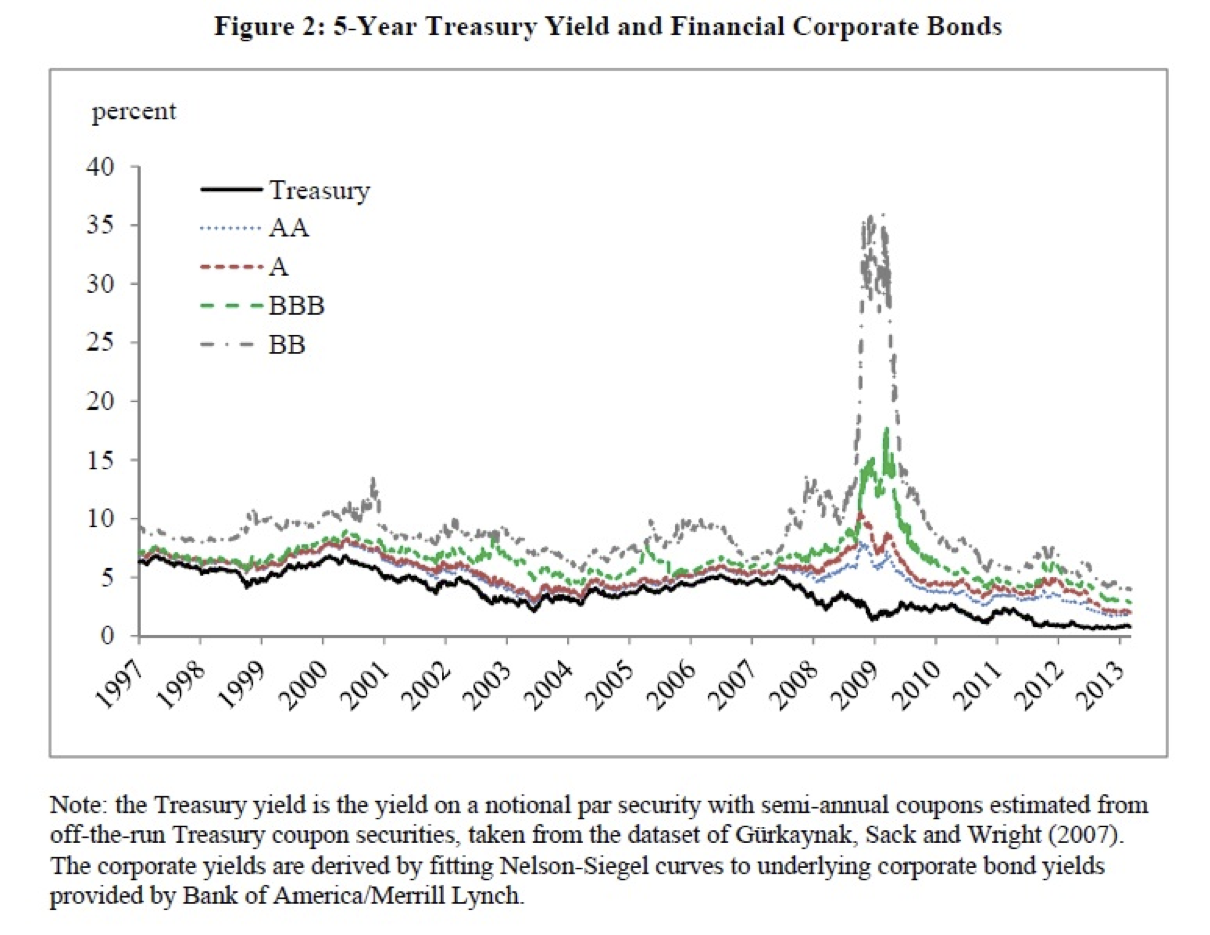
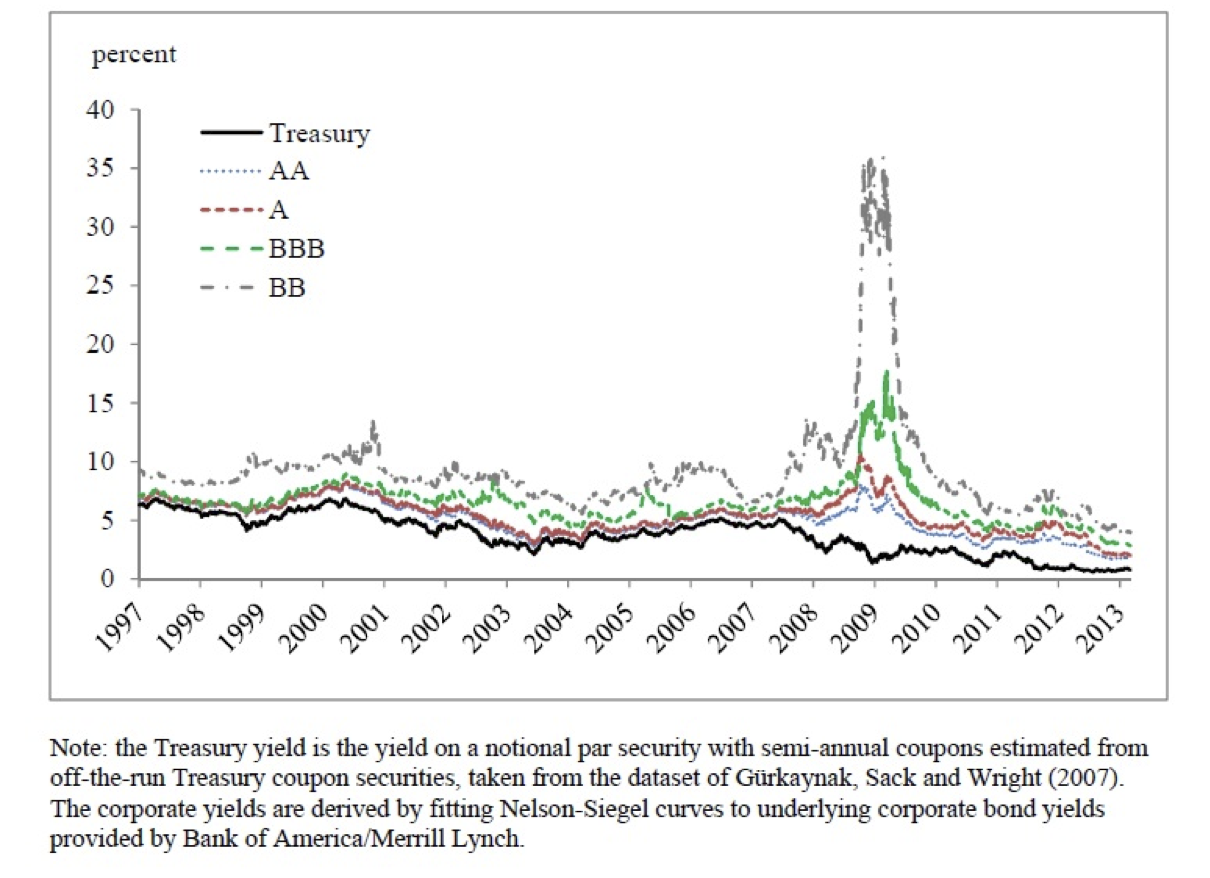
Imperfect capital markets chapters: corrections from a line-by-line review
Capital market imperfections: bond spreads are only partial evidence of the external
finance premium, since a promised yield exceeds the risk-free rate even without
verification costs. New share issues, not equity, are the small source of funds. The
model now says what investors know and when debt is optimal; projects that go unfunded are
those that would be funded under full information; households know less than a bank
does. The model's parties have one name each, equations and figures are referred to by
name, and the titles baked into Raskin's two images are cropped.

Investment and cash flow: points to the chapter before it, says the dividend is net of
investment spending, credits the example to Miller and Modigliani (1961), and fixes
punctuation, agreement and a "But" that did not follow.

Claude-Session: https://claude.ai/code/session_01CChDGrjSU7rnu4Mpw6L4NE

Changed region(s): [[0.0306, 0.0, 0.9785, 0.9841], [0.7033, 0.1845, 0.7339, 0.3383]]

diff --git a/content/investment/DynanImperfCapMkts/index.md b/content/investment/DynanImperfCapMkts/index.md
@@ -16,8 +16,8 @@ good credit risks from bad ones, so the market rate reflects the average risk; t
 risks are unwilling to borrow at that rate, and the market fills with bad ones
 {cite:p}`akerlofLemons`. Lenders may then ration credit rather than raise the rate
 {cite:p}`stiglitzWeissRationing`, and a firm that issues new shares signals that its
-managers think them overpriced {cite:p}`myersMajlufFinancing`. Under moral hazard, the
-money having already been lent, the borrower has an incentive to do things that are not in
+managers think them overpriced {cite:p}`myersMajlufFinancing`. Under moral hazard, once the
+money has been lent, the borrower has an incentive to do things that are not in
 the lender's interest {cite:p}`jensenMecklingAgency`.
 
 ## Sources of External Finance
@@ -26,11 +26,11 @@ One place these problems show up is in the structure of the financial system its
 Funds flow from savers to borrowers by two routes. They travel directly when a household
 buys a firm's stocks or bonds, and indirectly when a household deposits at a bank that
 then lends to the firm. Asymmetric information is worse along the direct route, because
-a household knows far less about a firm's projects than the firm does, and because no
+a household knows far less about a firm's projects than a bank does, and because no
 single household has a stake large enough to make paying for monitoring worthwhile.
 
 Financial intermediaries exist largely because of this. A bank becomes a specialist in
-acquiring information about firms, which is more efficient done at scale, and so gets
+acquiring information about firms, which is more efficient at scale, and so gets
 around some of the problem {cite:p}`diamondMonitoring`. It does not get around all of it, and there remains
 asymmetric information along the indirect route as well (and between depositors and the
 bank). How much a bank can lend then depends on its own capital, which gives the condition
@@ -43,13 +43,13 @@ bonds and short-term securities 11 percent, and new shares less than 1 percent. 
 outside financing is done indirectly, through intermediaries, which is what the
 information problems predict. The skew is in fact sharper than those numbers suggest,
 since financial intermediaries rather than households hold much of the stock and most of
-the bonds. Note also how small a role equity plays. On balance it has since become
+the bonds. Note also how little comes from new shares. Net issuance has since turned
 negative: in the Federal Reserve's Financial Accounts, U.S. nonfinancial corporations
-retired more stock than they issued in every year from 1984 to 2025 except 1991-93, a net
+retired more stock than they issued in every year from 1984 to 2025 except 1991–93, a net
 8.5 trillion dollars in all {cite:p}`fedZ1`, although individual firms issue and retire
 stock far more often than the "pecking order" of {cite:t}`myersMajlufFinancing` would
 predict {cite:p}`famaFrenchIssuance`. The model we turn to now explains why a debt
-contract is generally the optimal arrangement between a lender and a borrower.
+contract is the optimal arrangement between an outside investor and an entrepreneur.
 
 ## Costly State Verification
 
@@ -62,9 +62,10 @@ generalizes to others and the qualitative conclusions survive.
 
 An entrepreneur can undertake a project requiring one unit of resources. Project output
 is distributed uniformly on {math}`[0,2\mu]`, so expected output is {math}`\mu`, and
-{math}`\mu` varies across entrepreneurs. The entrepreneur has wealth {math}`W` and must
-borrow {math}`1-W` from outsiders. Because all of her money is tied up in the project,
-her payment back to lenders cannot exceed the project's output, so the lenders bear some
+{math}`\mu` varies across entrepreneurs. The entrepreneur has wealth {math}`W<1` and must
+borrow {math}`1-W` from investors. Investors know {math}`\mu` and {math}`W`; the only hidden
+information is realized output. Because all of her money is tied up in the project,
+her payment back to investors cannot exceed the project's output, so the investors bear some
 of the risk. Everyone is risk neutral, the risk-free interest rate is {math}`\rfree`,
 and outside investors are competitive, so in equilibrium their expected rate of return
 must equal {math}`\rfree`. The entrepreneur undertakes the project when
@@ -72,11 +73,11 @@ must equal {math}`\rfree`. The entrepreneur undertakes the project when
 ```{math}
 :label: eq:DICM-undertake
 
-\mu - \Ex[\text{payment to outsiders}] > (1+\rfree)W.
+\mu - \Ex[\text{payment to investor}] > (1+\rfree)W.
 ```
 
 Suppose first that outside investors can observe output without cost, so that they know
-what the firm knows. Every project with {math}`\mu > 1+\rfree` is financed, and the loan
+what the entrepreneur knows. Every project with {math}`\mu > 1+\rfree` is financed, and the loan
 contract is written so that the expected payment to the investor is
 {math}`(1-W)(1+\rfree)`. The investor is content, earning exactly what lending at the
 risk-free rate would have paid. So is the entrepreneur, whose expected income is
@@ -89,9 +90,9 @@ which exceeds {math}`W(1+\rfree)` precisely because {math}`\mu > 1+\rfree`.
 
 Now let the investor pay a cost {math}`c>0` to observe the entrepreneur's output. We take
 up this case, "costly state verification," because it is the most straightforward of the
-information problems to analyze, and we should be honest that in practice other frictions
-matter more. We also assume the outsider's wealth exceeds {math}`1-W`, so that a single
-investor can fund a project. (Drop that assumption and lenders begin waiting for someone
+information problems to analyze, though in practice other frictions
+matter more. We also assume the investor's wealth exceeds {math}`1-W`, so that a single
+investor can fund a project. (Drop that assumption and investors begin waiting for someone
 else to pay the verification cost, which is a complication of its own.)
 
 The expected payment to the investor must cover the required return and the verification
@@ -104,21 +105,23 @@ costs it expects to bear,
 ```
 
 and the entrepreneur keeps whatever output remains. Her income is therefore maximized by
-the contract that minimizes expected verification costs, and that contract is debt. The
-outsider receives a fixed payment {math}`D` whenever output is high enough to cover it,
-verifying nothing; when output falls short, the outsider verifies and takes everything
+the contract that minimizes expected verification costs. As long as verification is
+deterministic and the investor can commit to carrying it out, that contract is debt; random
+audits can do better (Border and Sobel 1987; Mookherjee and Png 1989). The
+investor receives a fixed payment {math}`D` whenever output is high enough to cover it,
+verifying nothing; when output falls short, the investor verifies and takes everything
 there is. Verifying always would be wasteful, and a payment that varied with output
 without verification would be worthless, since the entrepreneur would report that things
 had turned out badly every time.
 
 ## The Equilibrium Debt Contract
 
-The face value {math}`D` is endogenous, so we solve for it. Write the lender's expected
-net receipts as {math}`\mathcal{R}(D)`. If {math}`D \geq 2\mu` the lender always takes the
+The face value {math}`D` is endogenous, so we solve for it. Write the investor's expected
+net receipts as {math}`\mathcal{R}(D)`. If {math}`D \geq 2\mu` the investor always takes the
 whole output and always verifies, so {math}`\mathcal{R} = \mu - c`. If {math}`D < 2\mu`,
-then with probability {math}`(2\mu-D)/2\mu` output exceeds {math}`D` and the lender
+then with probability {math}`(2\mu-D)/2\mu` output exceeds {math}`D` and the investor
 receives {math}`D` without verifying, while with probability {math}`D/2\mu` output falls
-short and the lender verifies and collects {math}`D/2` on average (the mean of a uniform
+short and the investor verifies and collects {math}`D/2` on average (the mean of a uniform
 draw conditional on landing below {math}`D`). Collecting terms,
 
 ```{math}
@@ -131,7 +134,7 @@ so that {math}`\mathcal{R}` is rising as long as {math}`2\mu - c > D`. Expected 
 therefore increase with {math}`D` up to {math}`D = 2\mu - c` and fall thereafter,
 leveling out at {math}`D = 2\mu`.
 
-Equilibrium sets {math}`\mathcal{R}(D)` equal to the return the lender requires,
+Equilibrium sets {math}`\mathcal{R}(D)` equal to the return the investor requires,
 {math}`(1+\rfree)(1-W)`. Three cases arise as that requirement rises. When it is low the
 equation has a single relevant root on the rising branch. When it is higher there are
 two roots, but the larger of them is not a competitive equilibrium, because another
@@ -141,7 +144,7 @@ investor's required return in expected value.
 
 Because the investor verifies whenever output falls below the equilibrium face value,
 which happens with probability {math}`D^{*}/2\mu`, expected verification costs are
-{math}`(D^{*}/2\mu)c`. Writing that wedge as an agency cost
+{math}`(D^{*}/2\mu)c`. Writing these costs as a wedge, the agency cost
 {math}`\mathcal{A}(c,\rfree,W,\mu)`, the project is undertaken only when
 
 ```{math}
@@ -157,12 +160,12 @@ verification deliver much the same comparative statics.
 
 ## Implications
 
-Four things follow, and we think each of them marks a real departure from the
-{math}`\q` theory of the [{math}`\q` model](#sec:qModel).
+Four things follow, and each of them marks a real departure from the
+[{math}`\q` model](#sec:qModel).
 
 Agency costs raise the cost of external finance and reduce investment, since
-{eq}`eq:DICM-agency` demands a strictly better project than the frictionless condition
-{math}`\mu > 1+\rfree` would. Some worthwhile projects (those with
+[the condition for undertaking a project with agency costs](#eq:DICM-agency) demands a strictly better project than the frictionless condition
+{math}`\mu > 1+\rfree` would. Some projects that would be funded under full information (those with
 {math}`1+\rfree < \mu < 1+\rfree+\mathcal{A}`) simply go unfunded.
 
 Output and interest rates acquire indirect effects on investment alongside the direct
@@ -176,8 +179,8 @@ external finance and lowers investment, which deepens the recession. In
 collateral that limits how much firms can borrow.
 
 Variables with no place in the {math}`\q` model begin to matter, cash flow most of all.
-Firms with more of their own resources fund projects more cheaply, and the empirical
-literature testing that link is large and mostly finds it. Unfortunately, the finding is
+Firms with more of their own resources fund projects more cheaply, and a large empirical
+literature mostly finds that investment moves with cash flow. Unfortunately, the finding is
 harder to interpret than it looks, because cash flow moves with profitability, which
 ought to affect investment even when information is symmetric (a firm having a good year
 is both richer and, plausibly, facing better projects). We take that identification
@@ -186,15 +189,17 @@ problem up in [investment and cash flow](#sec:iAndCashFlow).
 Changes in the financial system itself alter investment, by making verification harder
 or easier. The collapse of the banking system during the Great Depression destroyed
 precisely the specialists who had been evaluating projects cheaply, which raised the
-cost of investment and helped drive it down {cite:p}`bernankeDepression`.
+cost of credit and helped drive investment down {cite:p}`bernankeDepression`.
 
 (ExternalFinancePremium)=
 ## The Premium on External Finance
 
 The model's central prediction is that external finance carries a premium, which rises
 with the borrower's risk and falls with its net worth, and so should widen in a recession,
-when net worth falls. The yields on corporate bonds show both.
-{numref}`fig:CreditSpread` shows a century of one measure, the spread between the yields on
+when net worth falls. Corporate bond yields are consistent with this, though only partly as evidence for it: in the
+model a promised yield exceeds the risk-free rate even without verification costs, because it
+compensates the lender for default.
+[The figure of credit spreads](#fig:CreditSpread) shows a century of one measure, the spread between the yields on
 Moody's Baa-rated and Aaa-rated corporate bonds. Since 1919 it has averaged 1.7 percentage points
 in recessions and 1.0 in expansions, and it reached 5.6 points in May 1932, 3.4 in December 2008
 and 1.7 in April 2020.
@@ -205,11 +210,11 @@ and 1.7 in April 2020.
 The spread between the yields on Moody's seasoned Baa-rated and Aaa-rated corporate bonds, in percentage points, monthly from 1919, with the NBER's recessions shaded. Data from FRED (series BAA, AAA and USREC), downloaded on 2026-10-31. Drawn by the chapter's notebook, which you can open in [Colab](https://colab.research.google.com/github/intertemporal-choice/intertemporal-choice.github.io/blob/main/content/investment/DynanImperfCapMkts/DynanImperfCapMkts.ipynb) or [Binder](https://mybinder.org/v2/gh/intertemporal-choice/intertemporal-choice.github.io/main?labpath=content/investment/DynanImperfCapMkts/DynanImperfCapMkts.ipynb).
 :::
 
-{numref}`fig:NonfinancialBonds` and {numref}`fig:FinancialBonds`, from the third chapter
+[The nonfinancial figure](#fig:NonfinancialBonds) and [the financial figure](#fig:FinancialBonds), from the third chapter
 of Matthew Raskin's 2013 Johns Hopkins dissertation, plot the yields on five-year bonds of
 nonfinancial and of financial firms, by credit rating, against the five-year Treasury
 yield, from 1997 to 2013. The spread over Treasuries is larger the lower the rating, and in
-the financial crisis of 2008-09 it widened enormously, most of all for the lowest-rated
+the financial crisis of 2008–09 it widened enormously, most of all for the lowest-rated
 bonds and for financial firms: the yield on BB-rated bonds rose to almost 15 percent for
 nonfinancial firms and to about 35 percent for financial firms, while the Treasury yield
 fell. {cite:t}`gilchristZakrajsekSpreads` split credit spreads into the part explained by

diff --git a/content/investment/iAndCashFlow.md b/content/investment/iAndCashFlow.md
@@ -1,7 +1,7 @@
 (sec:iAndCashFlow)=
 # Investment and Cash Flow With Imperfect Capital Markets
 
-Many models of capital market imperfections reach the conclusion that financing an investment project is cheaper with "internal" than with "external" funds. (Internal funds are those that the firm owns, for example, in its bank account; external funds are obtained from outsiders like banks or new investors). For a lucid exposition of an example of models of this kind, see the discussion of financial market imperfections in {cite:t}`romer:text`.
+Many models of capital market imperfections reach the conclusion that financing an investment project is cheaper with "internal" than with "external" funds. (Internal funds are those that the firm owns, for example, in its bank account; external funds are obtained from outsiders like banks or new investors). For a lucid exposition of an example of models of this kind, see [Investment and Capital Market Imperfections](#sec:DynanImperfCapMkts) or the discussion of financial market imperfections in {cite:t}`romer:text`.
 
 Such models tend to be highly specialized, with entrepreneurs who miraculously receive exogenously specified endowments of "internal" cash and who make a one- (or at most two-) period investment decision. This is a striking contrast with the generality of the canonical {math}`\q` model of investment in which optimizing firms make investment decisions that take into account infinite future paths of adjustment costs, marginal products of capital, taxes, and all other features of the environment.
 
@@ -9,7 +9,7 @@ But models with imperfect capital markets are always very clear on who receives 
 
 ## Modigliani-Miller
 
-To see this, consider the benchmark discrete-time framework in the [marginal q model](#sec:qModel) section without taxes or depreciation, and (as in that section) assume that the firm issues or repurchases shares to maintain a number of shares {math}`s_{t}` outstanding equal to the size of the physical capital stock (so {math}`s_{t}=k_{t}` in every period). Suppose we assume that the firm has a "dividend policy": In every period, it pays to each shareholder a dividend equal to the flow of revenues per share.
+To see this, consider the benchmark discrete-time framework in the [marginal q model](#sec:qModel) section without taxes or depreciation, and (as in that section) assume that the firm issues or repurchases shares to maintain a number of shares {math}`s_{t}` outstanding equal to the size of the physical capital stock (so {math}`s_{t}=k_{t}` in every period). Suppose we assume that the firm has a "dividend policy": In every period, it pays to each shareholder a dividend equal to the flow of revenues net of investment expenditures, per share.
 
 In this case, the value of all the firm's shares {math}`s_{t}` (the equity value of the firm) will be
 
@@ -25,7 +25,7 @@ Now suppose the firm decides to deviate, just a little bit, from this dividend p
 
 ```{math}
 \begin{aligned}
-  \max_{\{i\}_{t}^{\infty}}~\Ex_{t}\left[\sum_{n=0}^{\infty} \Discount^{n} \left(\pi_{t+n}-\xpend_{t+n}\right)\right]+ \lambda_{t} - \Rfree\Discount \lambda_{t}.
+  \max_{\{i\}_{t}^{\infty}}~\Ex_{t}\left[\sum_{n=0}^{\infty} \Discount^{n} \left(\pi_{t+n}-\xpend_{t+n}\right)\right]+ \lambda_{t} - \Rfree\Discount \lambda_{t},
 \end{aligned}
 ```
 
@@ -33,9 +33,9 @@ but since by assumption {math}`\Discount = \Rfree^{-1}` this expression reduces 
 
 The point can be extended to show that the firm can raise an arbitrary amount of money in one period, paying it back in another, or vice versa, without having any effect on its value or its optimal investment plans.
 
-This is an example of the famous theorem by {cite:t}`mmTheorem`, who showed that under perfect capital markets the value of the firm is identical whether its investment is financed by equity, debt, or any combination of the two.
+This is an example of the result on dividend policy of Miller and Modigliani (1961), a companion to the famous theorem by {cite:t}`mmTheorem`, who showed that under perfect capital markets the value of the firm is identical whether its investment is financed by equity, debt, or any combination of the two.
 
-It is precisely to get around this result that models of imperfect capital markets were invented, since from the beginning many economists did not believe that the result is a plausible description of reality (including, I believe, Modigliani and Miller; see {cite:t}`millerMM30` for Miller's own look back). Indeed, the existence (and high salaries) of corporate financial officers constitute a proof that the proposition is not true: if it were true, CFOs would have no effect on the value of the firm, and could all be fired (thus saving the firm their salaries!). What remains true, however, is that models of investment that relax the assumption of perfect capital markets are much more difficult to work with (and harder to extract implications from) than models that assume capital markets are perfect.
+It is precisely to get around this result that models of imperfect capital markets were invented, since from the beginning many economists did not believe that the result is a plausible description of reality (including, I believe, Modigliani and Miller; see {cite:t}`millerMM30` for Miller's own look back). Indeed, the existence (and high salaries) of chief financial officers constitutes a proof that the proposition is not true: if it were true, CFOs would have no effect on the value of the firm, and could all be fired (thus saving the firm their salaries!). What remains true, however, is that models of investment that relax the assumption of perfect capital markets are much more difficult to work with (and harder to extract implications from) than models that assume capital markets are perfect.
 
 A testable result that generally emerges from models of capital market imperfections, however, is that the amount of a firm's investment depends on the amount of cash the firm has on hand, with which it can finance that investment.
 
@@ -51,7 +51,7 @@ The [marginal q model](#sec:qModel) section shows that the {math}`\q` model can 
 \end{aligned}
 ```
 
-The simplest class of imperfect capital markets models is one in which the firm is constrained to pay dividends to shareholders equal to whatever is its flow of cash after subtracting off expenses. But the rate of return that the firm must pay for external funds exceeds the return it can earn on internal funds. Without going into details, the rough implication of this is that an empirical model of the firm's investment choices should augment {eq}`eq:iotaPerf` with a measure of the funds the firm has in its hands at the time the investment decision is made, its cash flow {math}`\pi` per unit of capital:
+The simplest class of imperfect capital markets models is one in which the firm is constrained to pay dividends to shareholders equal to whatever is its flow of cash after subtracting off expenses. In addition, the rate of return that the firm must pay for external funds exceeds the return it can earn on internal funds. Without going into details, the rough implication of this is that an empirical model of the firm's investment choices should augment {eq}`eq:iotaPerf` with a measure of the funds the firm has in its hands at the time the investment decision is made, its cash flow {math}`\pi` per unit of capital:
 
 ```{math}
 :label: eq:iotaImp
